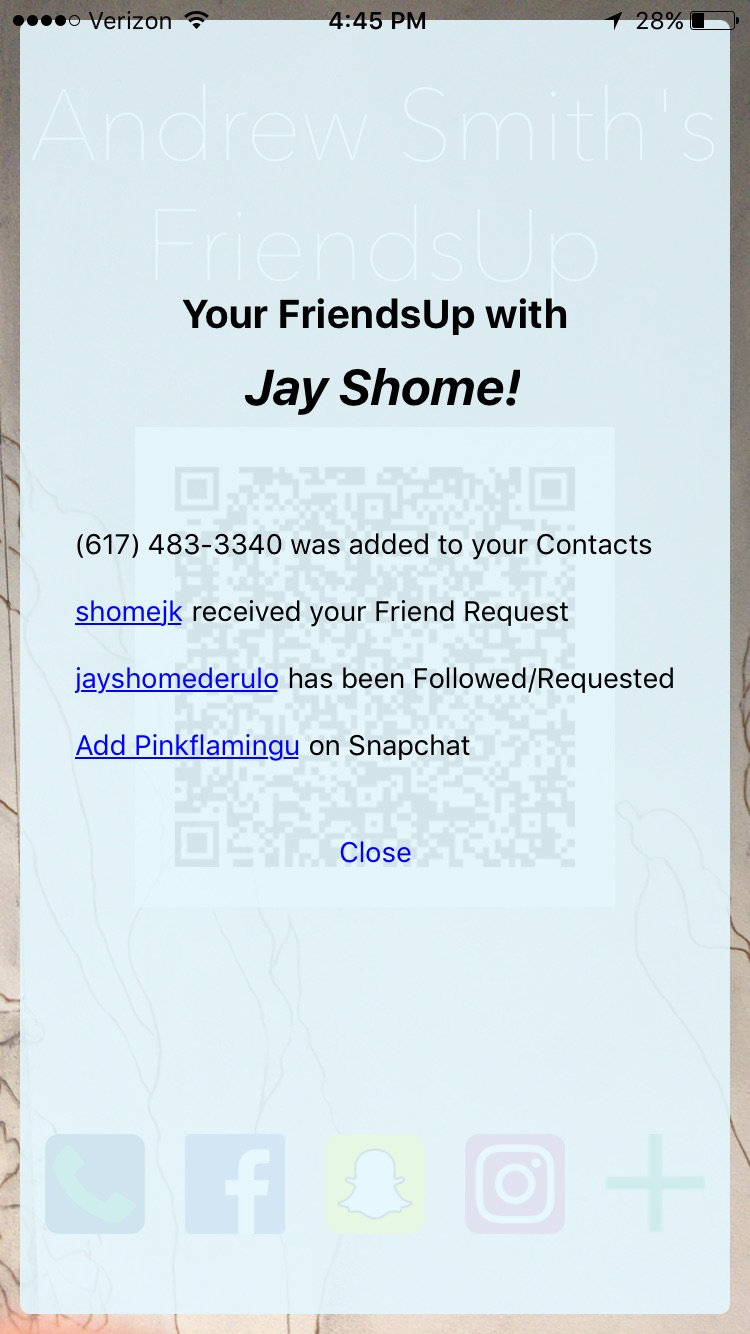
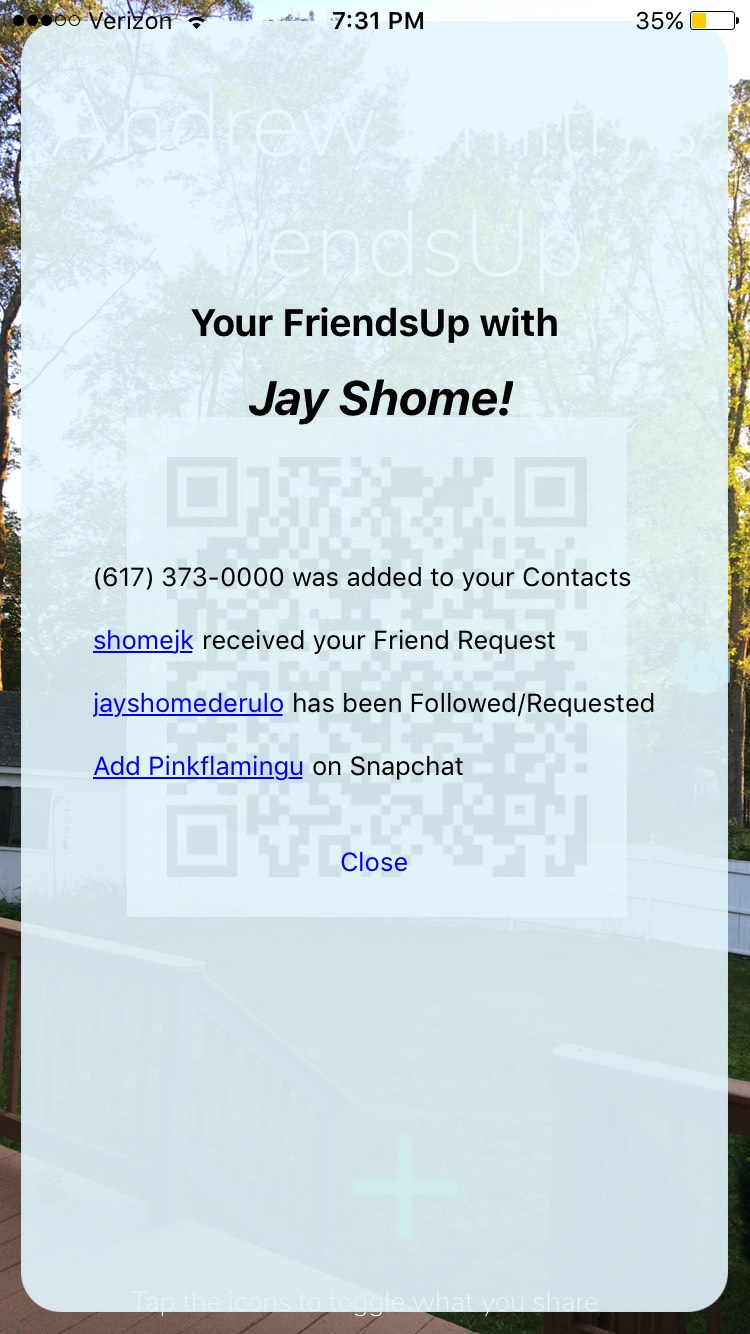
got rid of jay's phone number

diff --git a/index.html b/index.html
@@ -209,7 +209,7 @@
                             </a>
                         </div>
                         <div class="col-sm-4 portfolio-item print">
-                                <img src="assets/img/demo-portfolio/3.png" class="img-centered" alt="">
+                                <img src="assets/img/demo-portfolio/3.jpg" class="img-centered" alt="">
                             </a>
                         </div>
                     </div>
